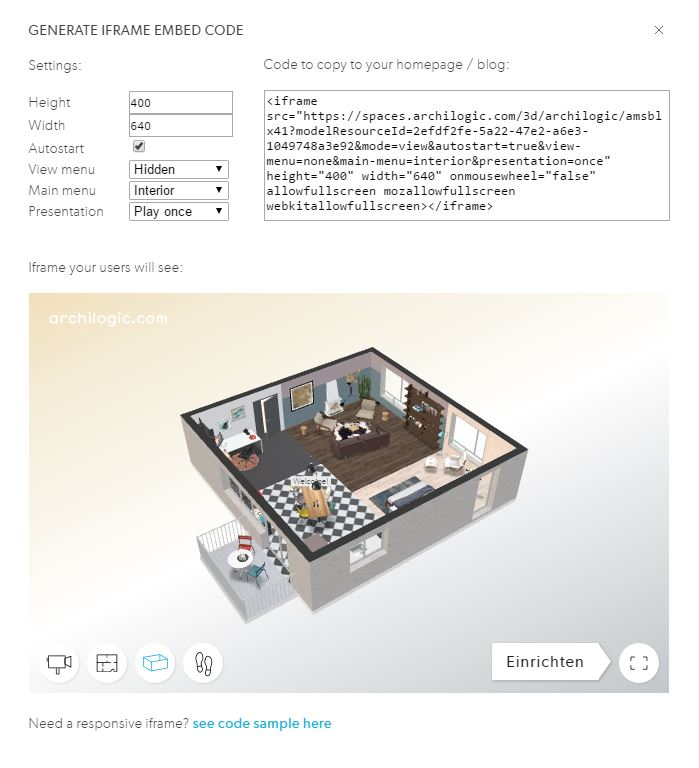
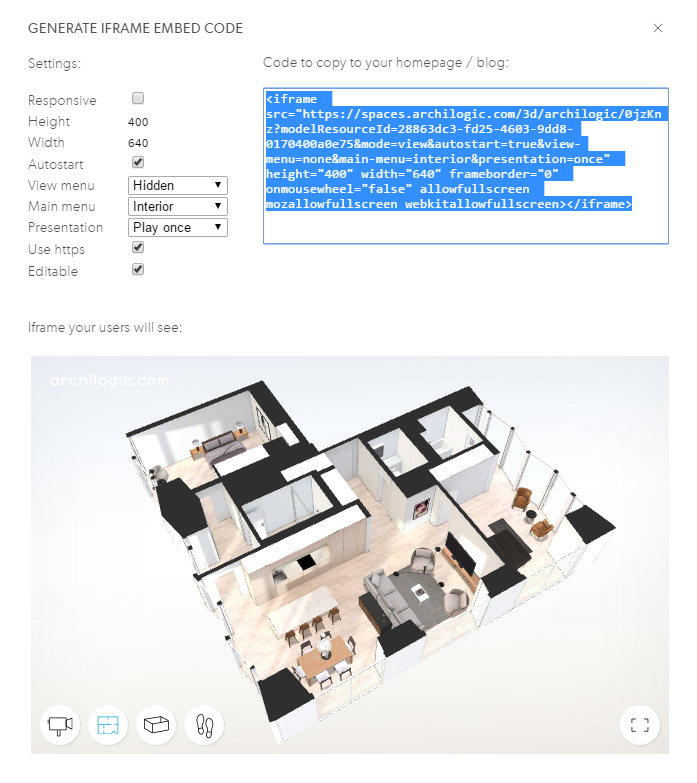
updated iframe information in docs

diff --git a/en/platform/dashboard/edit-model.md b/en/platform/dashboard/edit-model.md
@@ -21,7 +21,7 @@ Once you clicked on the edit button you can change the title, the address, the s
 * Click on the **share link icon** to get a link to the model that you can share with your friends or coworkers.
 
 * Click on the **Iframe code icon** to get an HTML code that you can embed into a website to showcase the model online.
-If you click the Iframe icon a pop up opens that allows you to customize the iframe before you copy paste the code into a website. The options let you change the height and the width of the iframe, but also allow you to choose whether the model should load automatically or if a viewer first has to press a button to start the interactive camera animation.
+If you click the Iframe icon a pop up opens that allows you to customize the iframe before you copy paste the code into a website. The options let you change the height and the width of the iframe, but also allow you to choose whether the model should load automatically or if a viewer first has to press a button to start the interactive camera animation. Furthermore you can also determine whether the iframe should use https or not and whether a viewer should be able to edit the model or not.
 ![Edit 3d Iframe options]({{site.baseurl}}/assets/images/Platform-Dashboard-Model-Iframe.jpg){: .img-responsive}
 
 * Click on the **trash bin icon** to delete the 3d model. **Please keep in mind that deleting your 3d model is permanently**
